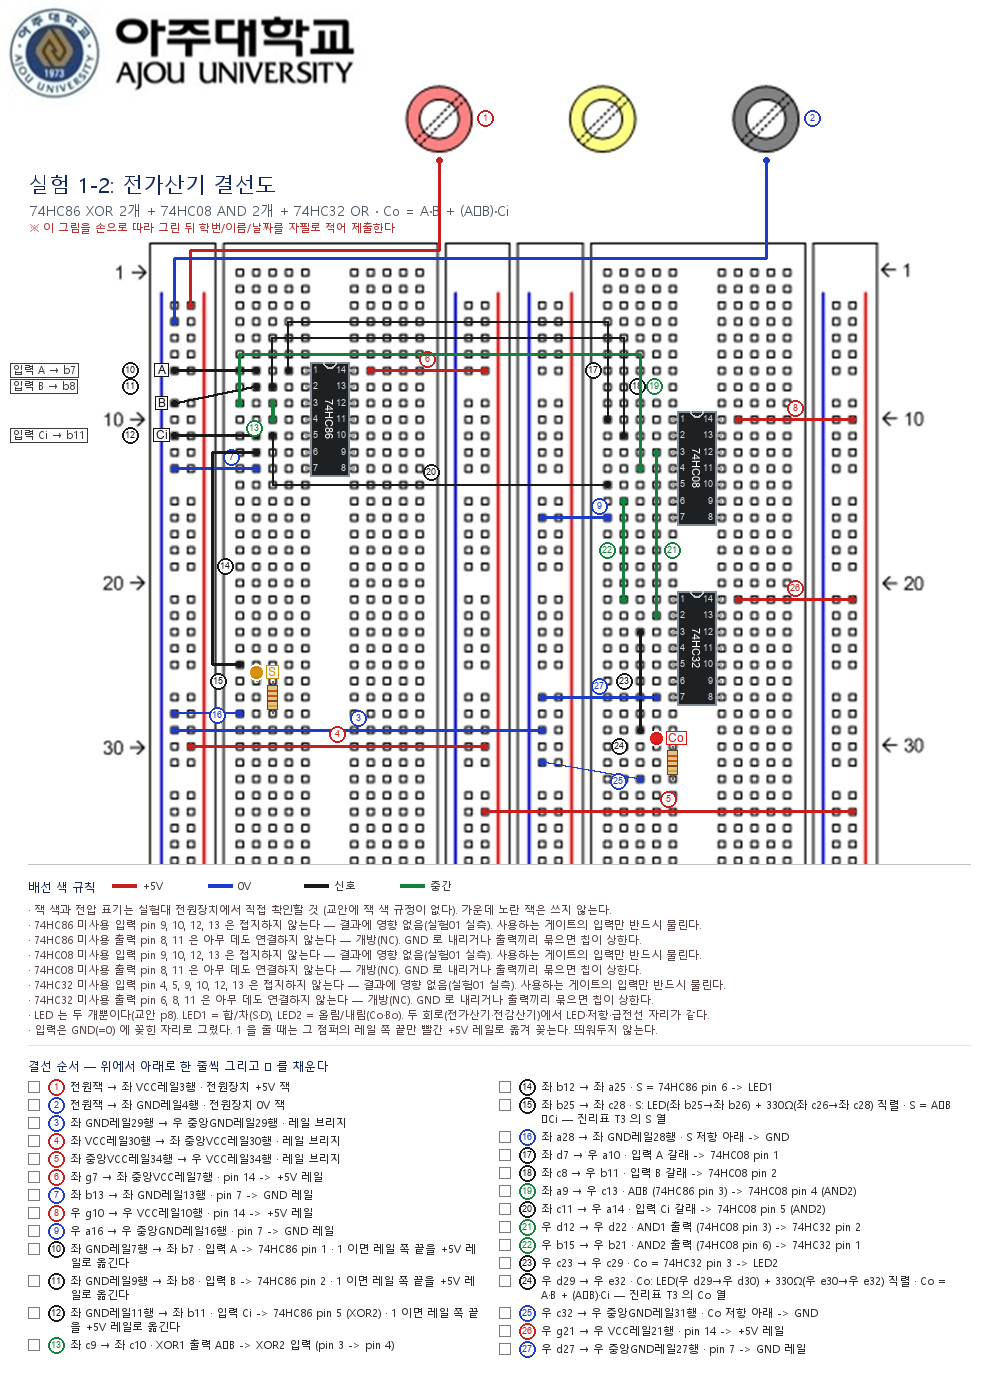
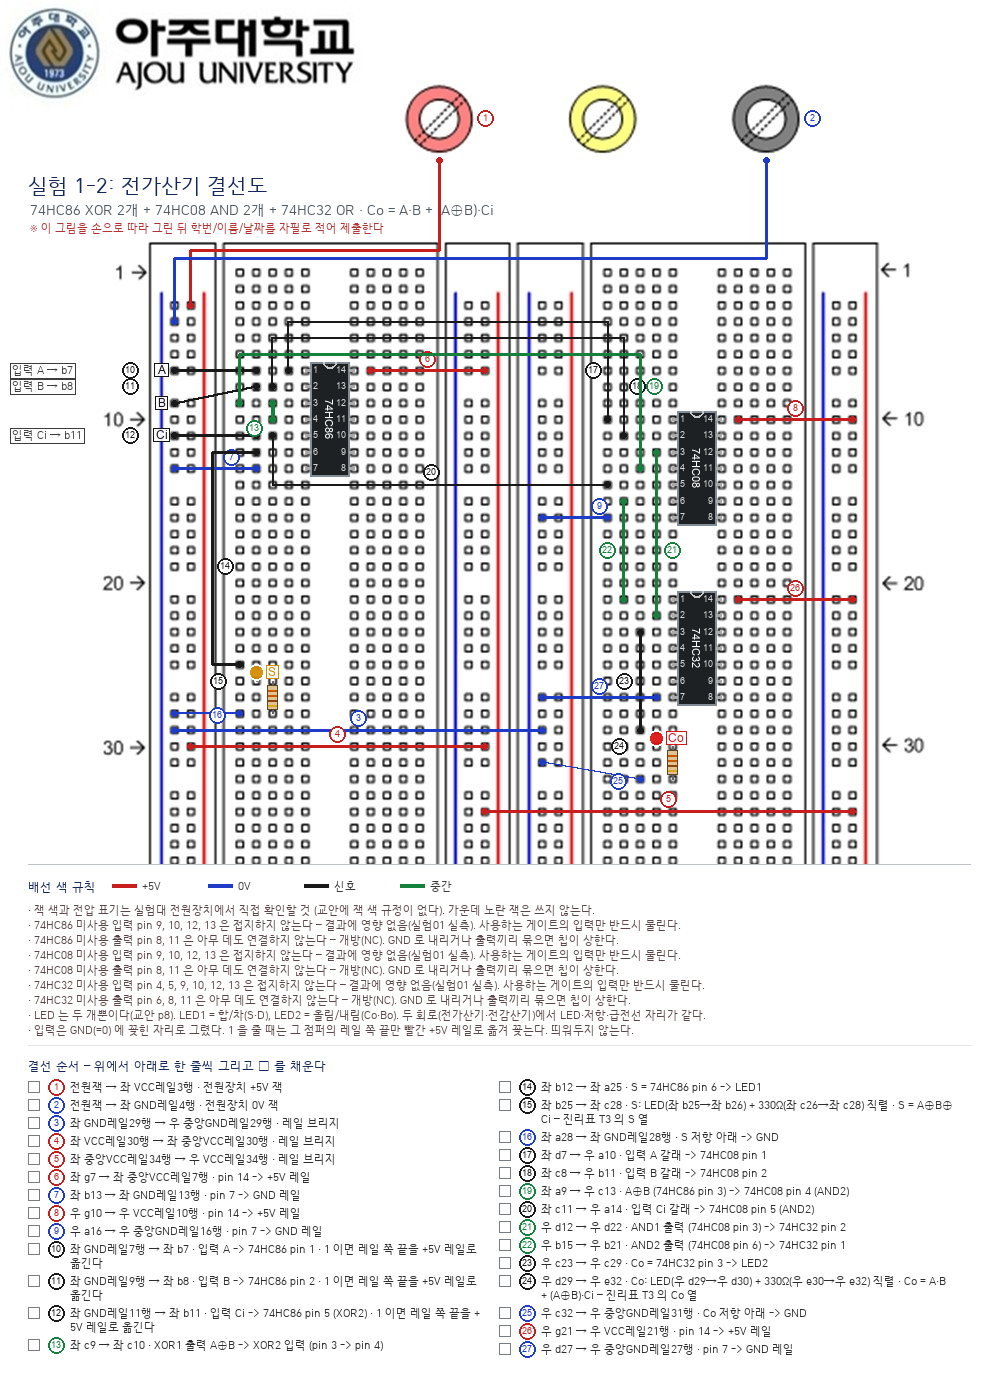
fix(breadboard): ⊕ 가 두부로 찍히던 폰트 선택을 고치고 걷기 보드 partial 을 엔진이 지킨다
맑은 고딕에 U+2295 ⊕ 와 U+2610 ☐ 가 없어 Windows 에서 뽑은 결선도 부제가
`(A□B)·Ci` 로 나갔다. 한글과 기호를 둘 다 가진 후보(본고딕·함초롬돋움)를 앞에
세우고, font_path() 가 REQUIRED_GLYPHS 를 못 그리는 후보를 건너뛴다.

걷기 보드는 걷어낸 가닥의 핀이 뜨는 것이 정상인데 주차 빌더가 단계로 partial 을
덮어써 verify() R5 에 걸렸다. partial 을 프로퍼티로 바꿔 ghost 보드에서는 내려도
True 로 남게 하고, 실험03 배치.py 의 임시 우회를 원복한다.

diff --git a/.claude/skills/breadboard-diagram/scripts/render_breadboard.py b/.claude/skills/breadboard-diagram/scripts/render_breadboard.py
@@ -39,11 +39,18 @@ TEMPLATE_CANDIDATES = (
 TEMPLATE_SIZE = (998, 1345)
 
 # 폰트. macOS 경로만 박혀 있어 Windows 에서 렌더러가 통째로 죽었다 (2026-09-12).
-# 있는 것을 순서대로 쓴다 — 한글은 Apple SD Gothic Neo → 맑은 고딕 → 나눔고딕,
-# 영문은 Helvetica → Arial → DejaVu. 저장소 루트 밖의 절대 경로지만 폰트는
-# 저장소가 들고 다닐 물건이 아니다.
+# 있는 것을 순서대로 쓴다 — 한글은 Apple SD Gothic Neo → 본고딕 → 함초롬돋움 →
+# 맑은 고딕 → 나눔고딕, 영문은 Helvetica → Arial → DejaVu. 저장소 루트 밖의
+# 절대 경로지만 폰트는 저장소가 들고 다닐 물건이 아니다.
+#
+# 2026-09-19: 맑은 고딕에 U+2295 ⊕ 가 없어 결선도 부제·꼬리표가 □ 로 찍혔다
+# (`(A⊕B)·Ci` 가 `(A□B)·Ci` 로 나가고 줄바꿈도 어긋났다). 그래서 Windows 에서 한글과
+# ⊕ 를 **둘 다** 가진 폰트를 맑은 고딕 앞에 세우고, `font_path()` 가 글리프까지
+# 확인해 못 그리는 후보는 건너뛴다 — 있기만 한 폰트를 고르면 같은 일이 되풀이된다.
 FONT_CANDIDATES = {
     'kr': ('/System/Library/Fonts/AppleSDGothicNeo.ttc',
+           'C:/Windows/Fonts/NotoSansKR-VF.ttf',
+           'C:/Windows/Fonts/HANDotum.ttf',
            'C:/Windows/Fonts/malgun.ttf',
            '/usr/share/fonts/truetype/nanum/NanumGothic.ttf'),
     'en': ('/System/Library/Fonts/Helvetica.ttc',
@@ -51,14 +58,54 @@ FONT_CANDIDATES = {
            '/usr/share/fonts/truetype/dejavu/DejaVuSans.ttf'),
 }
 
+# 한글 폰트가 반드시 그려야 하는 글자 — 결선도가 실제로 찍는 기호들이다.
+# ⊕ 부제·배선 뜻풀이, → 주소, · 머리표, ☐ 체크칸, ※ 꼬리표.
+REQUIRED_GLYPHS = {'kr': '⊕→·☐※', 'en': ''}
+
+# 글리프가 없을 때 폰트가 대신 그리는 .notdef 를 부르는 글자. 유니코드가
+# 비문자로 못박아 두어(U+FFFE) 어떤 폰트에도 진짜 글리프가 없다.
+_NOTDEF = '\ufffe'
+
+
+def _glyph_mask(font, ch):
+    """`ch` 한 글자의 렌더 결과 — (크기, 픽셀). 같은 폰트 안에서만 견준다."""
+    mask = font.getmask(ch, mode='L')
+    return (mask.size, bytes(mask))
+
+
+def _covers(path, chars):
+    """`path` 폰트가 `chars` 를 **전부** 진짜 글리프로 그리는가.
+
+    .notdef(`\\ufffe`) 와 똑같이 그려지는 글자는 없는 것으로 본다. Pillow 만 쓴다 —
+    폰트 테이블을 읽는 의존성을 새로 들이지 않으려고 그림을 직접 견준다.
+    """
+    try:
+        font = ImageFont.truetype(path, 20)
+    except OSError:
+        return False
+    notdef = _glyph_mask(font, _NOTDEF)
+    return all(_glyph_mask(font, ch) != notdef for ch in chars)
+
 
 def font_path(kind):
-    """`kind`('kr'|'en') 의 첫 번째 실재 폰트 경로. 없으면 어디를 봤는지 적어 던진다."""
+    """`kind`('kr'|'en') 의 첫 번째 쓸 만한 폰트 경로.
+
+    실재하기만 해서는 안 되고 `REQUIRED_GLYPHS[kind]` 를 다 그려야 한다 — 맑은 고딕은
+    한글은 되고 ⊕ 는 안 되어 그림이 조용히 □ 로 나갔다(2026-09-19). 없으면 어디를
+    봤는지, 어느 후보가 글리프 때문에 밀렸는지 적어 던진다.
+    """
+    wanted = REQUIRED_GLYPHS[kind]
+    skipped = []
     for path in FONT_CANDIDATES[kind]:
-        if os.path.exists(path):
+        if not os.path.exists(path):
+            continue
+        if _covers(path, wanted):
             return path
-    raise FileNotFoundError(
-        f'{kind} 폰트를 찾지 못했다. 찾아본 곳:\n  ' + '\n  '.join(FONT_CANDIDATES[kind]))
+        skipped.append(path)
+    msg = f'{kind} 폰트를 찾지 못했다. 찾아본 곳:\n  ' + '\n  '.join(FONT_CANDIDATES[kind])
+    if skipped:
+        msg += (f'\n글리프 {wanted!r} 가 없어 건너뛴 후보:\n  ' + '\n  '.join(skipped))
+    raise FileNotFoundError(msg)
 
 
 def _font(kind, size):
@@ -210,8 +257,10 @@ class BreadboardRenderer:
         self.marker_boxes = []
         # 일부러 덜 그린 그림인가 (복합 회로 누적 1·2단계). '아무 데도 안 물렸다'
         # 갈래만 건너뛴다 — 칩 핀도 부품 다리도 아직 안 붙었을 수 있다. 같은
-        # 스트립 점퍼도 전원 단락도 덜 그렸다고 봐줄 것이 아니다
-        self.partial = False
+        # 스트립 점퍼도 전원 단락도 덜 그렸다고 봐줄 것이 아니다.
+        # 걷기 보드에서는 프로퍼티(`partial` setter)가 False 를 받아도 True 로 남긴다 —
+        # 아래 `self.ghost` 를 먼저 정해 두어야 setter 가 그것을 볼 수 있다
+        self._partial = False
         # 앞 보드의 `snapshot()`. 같은 홀 쌍의 배선·같은 홀의 LED 사슬은 회색으로
         # 그리고 번호를 주지 않는다 — 실험실에서는 그 선을 손대지 않는다.
         # 기준선에 있었는데 이번에 안 그린 것은 `removed()` 가 "걷는다" 로 낸다.
@@ -257,6 +306,22 @@ class BreadboardRenderer:
 
         self._addr_map = self._build_addr_map()
         self._sym_map = self._build_sym_map()
+
+    @property
+    def partial(self):
+        return self._partial
+
+    @partial.setter
+    def partial(self, value):
+        """걷기 보드는 정의상 `partial` 이다 — 내려도 다시 올린다.
+
+        걷어낸 가닥의 핀은 아무 데도 안 물린다(74HC08 pin 1·4). 그게 이 그림의 요점인데
+        `verify()` R5 는 뜬 핀을 오류로 잡는다. 주차 파일들은 `bb.partial = st < 3`
+        처럼 단계로 값을 정하므로, 생성자가 켜 둔 것을 빌더가 뒤에서 도로 내린다
+        (2026-09-19 실험03 걷기 보드가 이걸로 PNG 재생성에서 죽었다). 세 주차 스물세
+        빌더에 `or bb.ghost` 를 덧대는 대신 여기서 한 번 막는다.
+        """
+        self._partial = bool(value) or getattr(self, 'ghost', None) is not None
 
     # ---------------- 좌표 ----------------
 

diff --git a/tests/test_breadboard_fonts.py b/tests/test_breadboard_fonts.py
@@ -3,6 +3,10 @@
 2026-09-12 까지 `BreadboardRenderer.__init__` 은 macOS 경로
 (`/System/Library/Fonts/AppleSDGothicNeo.ttc`)를 박아 두어 Windows 에서는
 `OSError: cannot open resource` 로 렌더러 테스트 165건이 통째로 죽었다.
+
+2026-09-19 에는 더 조용한 사고가 있었다 — Windows 에서 고른 맑은 고딕에 U+2295 `⊕`
+가 없어 결선도 부제가 `(A□B)·Ci` 로 나갔다. 터지지 않으니 테스트도 몰랐다. 그래서
+"뜨는가" 만이 아니라 "필요한 글자를 그리는가" 까지 여기서 본다.
 """
 import importlib.util
 import os
@@ -40,6 +44,22 @@ class Fonts(unittest.TestCase):
     def test_렌더러가_이_머신에서_뜬다(self):
         bb = self.mod.BreadboardRenderer()
         self.assertIsNotNone(bb.font_title)
+
+    def test_고른_한글_폰트가_필요한_글자를_다_그린다(self):
+        """`⊕→·☐※` — 결선도가 실제로 찍는 기호들. 하나라도 없으면 □ 로 나간다."""
+        chosen = self.mod.font_path('kr')
+        for ch in self.mod.REQUIRED_GLYPHS['kr']:
+            with self.subTest(ch=ch):
+                self.assertTrue(self.mod._covers(chosen, ch), f'{chosen} 에 {ch} 가 없다')
+
+    def test_맑은_고딕은_동그라미더하기가_없어_밀린다(self):
+        """2026-09-19 사고의 장본인. `_covers` 가 이걸 못 잡으면 규칙이 무의미하다."""
+        malgun = 'C:/Windows/Fonts/malgun.ttf'
+        if not os.path.exists(malgun):
+            self.skipTest('이 머신에 맑은 고딕이 없다')
+        self.assertTrue(self.mod._covers(malgun, '가'), '한글은 되는 폰트여야 대조가 된다')
+        self.assertFalse(self.mod._covers(malgun, '⊕'))
+        self.assertNotEqual(self.mod.font_path('kr'), malgun)
 
 
 if __name__ == '__main__':

diff --git a/tests/test_breadboard_baseline.py b/tests/test_breadboard_baseline.py
@@ -358,6 +358,25 @@ class RemovalBoard(unittest.TestCase):
             with self.assertRaises(ValueError):
                 build(os.path.join(d, 'g.png'))
 
+    def test_걷기_보드는_partial_을_내려도_다시_올라간다(self):
+        """주차 빌더들은 `bb.partial = st < 3` 처럼 단계로 값을 정한다 — 걷기 보드에서
+        그게 생성자가 켜 둔 것을 도로 내리면 걷어낸 가닥의 핀이 `verify()` R5 에 걸린다
+        (2026-09-19 실험03 PNG 재생성이 이걸로 죽었다)."""
+        build = self.mod.removal_board((self.prev_fn, None), (self.next_fn, None), 't', 's')
+        with tempfile.TemporaryDirectory() as d:
+            g = build(os.path.join(d, 'g.png'))
+        self.assertTrue(g.partial)
+        g.partial = False
+        self.assertTrue(g.partial, '걷기 보드는 정의상 partial 이다')
+
+    def test_보통_보드는_partial_을_내리면_내려간다(self):
+        bb = self.mod.BreadboardRenderer()
+        self.assertFalse(bb.partial)
+        bb.partial = True
+        self.assertTrue(bb.partial)
+        bb.partial = False
+        self.assertFalse(bb.partial)
+
     def test_클로저는_엔진_모듈_소속이라_주차_빌더_열거에_안_잡힌다(self):
         build = self.mod.removal_board((self.prev_fn, None), (self.next_fn, None), 't', 's')
         self.assertEqual(build.__module__, self.mod.__name__)

diff --git a/보고서/실험03/결선도/배치.py b/보고서/실험03/결선도/배치.py
@@ -101,9 +101,7 @@ def _e3_draw(bb, circuit, stage):
     # 사슬(fa·fs)은 급전선이 옮겨지지 않는다 — 회귀 전용 완성본(ha·hs)만 옛 문구를 쓴다.
     led_note = _E3_LED_NOTE_CHAIN if full else _E3_LED_NOTE_REGRESSION
     done = stage != 1
-    # 걷기 보드(ghost)는 앞 회로를 완성 상태로 그리지만 뽑을 두 가닥을 점유표에서 빼므로
-    # 74HC08 pin 1·4 가 뜬다 — 그게 정상이라 생성자가 켜 둔 `partial` 을 도로 내리지 않는다
-    bb.partial = not done or bb.ghost is not None
+    bb.partial = not done
 
     # --- 좌 S1: XOR + 입력 + LED1 ---
     bb.draw_chip('74HC86', _E3_S1)
